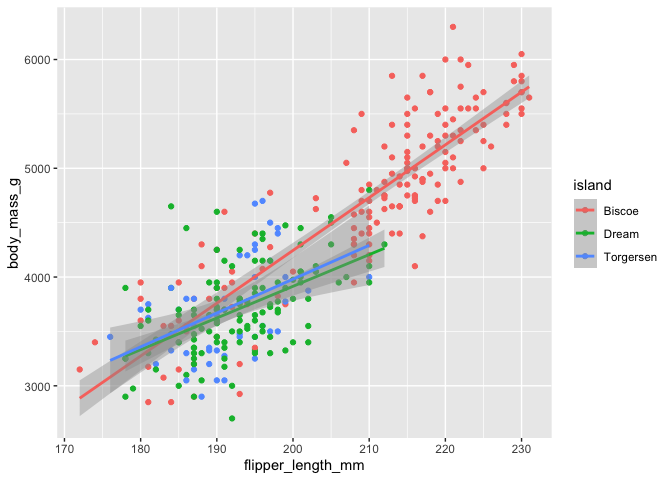
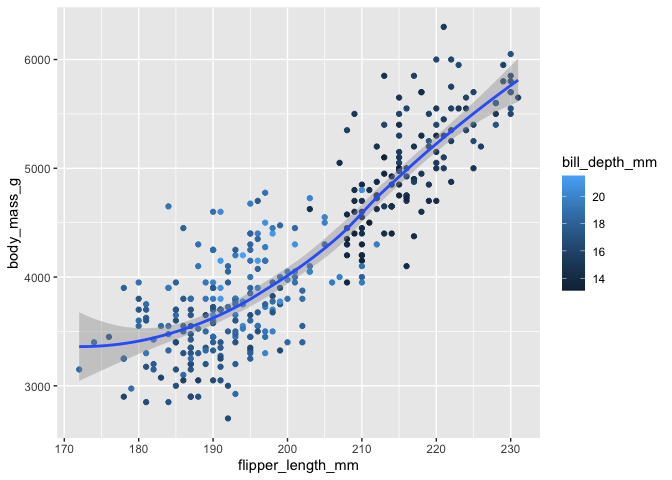
24 SEPv6

diff --git a/HomeWork_3/hmk_03.md b/HomeWork_3/hmk_03.md
@@ -38,7 +38,7 @@ function.
     getwd()
     ```
 
-        [1] "/Users/kami/my_GitHub_Repository/Reproducible_Data_Science"
+        [1] "/Users/kami/my_GitHub_Repository/Reproducible_Data_Science/homework2"
 
     ``` r
     # it's in my GitHub Repository folder
@@ -93,13 +93,13 @@ v1 + v2
 5.  Explain what the following code does. It may be helpful to reference
     the answer to the previous question:
 
-    again it’s not convincing for me when you can write it in more easy
-    to understand form like:
+    We can see vector recycling, when we perform some kind of operations
+    like addition, subtraction, etc. on two vectors of unequal length.
+    The vector with a small length will be repeated as long as the
+    operation completes on the longer vector. again it’s not convincing
+    for me when you can write it in more easy to understand form like:
 
     c(1, 5, 9) + c(3, 3, 3)
-
-    My personal preference is for programming languages that have fewer
-    surprises and fewer rules.
 
 ``` r
 c(1, 5, 9) + 3
@@ -148,13 +148,19 @@ library(tidyverse)
 
     ``` r
     ggplot(data = penguins,
-           mapping = aes(x = flipper_length_mm, y = body_mass_g, color = island)) +
-           geom_point() + geom_smooth(method = 'lm')
+           mapping = aes(x = flipper_length_mm, y = body_mass_g, color = bill_depth_mm)) +
+           geom_point() + geom_smooth()
     ```
 
-        `geom_smooth()` using formula = 'y ~ x'
+        `geom_smooth()` using method = 'loess' and formula = 'y ~ x'
 
         Warning: Removed 2 rows containing non-finite values (`stat_smooth()`).
+
+        Warning: The following aesthetics were dropped during statistical transformation: colour
+        ℹ This can happen when ggplot fails to infer the correct grouping structure in
+          the data.
+        ℹ Did you forget to specify a `group` aesthetic or to convert a numerical
+          variable into a factor?
 
         Warning: Removed 2 rows containing missing values (`geom_point()`).
 
